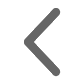
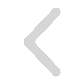
标题

Changed region(s): [[0.2857, 0.0952, 0.7143, 0.9048]]

diff --git a/src/layouts/index.less b/src/layouts/index.less
@@ -9,7 +9,8 @@
     color: #000;
     font-size: 36px;
     background-color: #fff;
-    border-bottom: 2px solid #666666;
+    border-bottom: 2px solid #f0f2f5
+    ;
 }
 
 .backImg {
